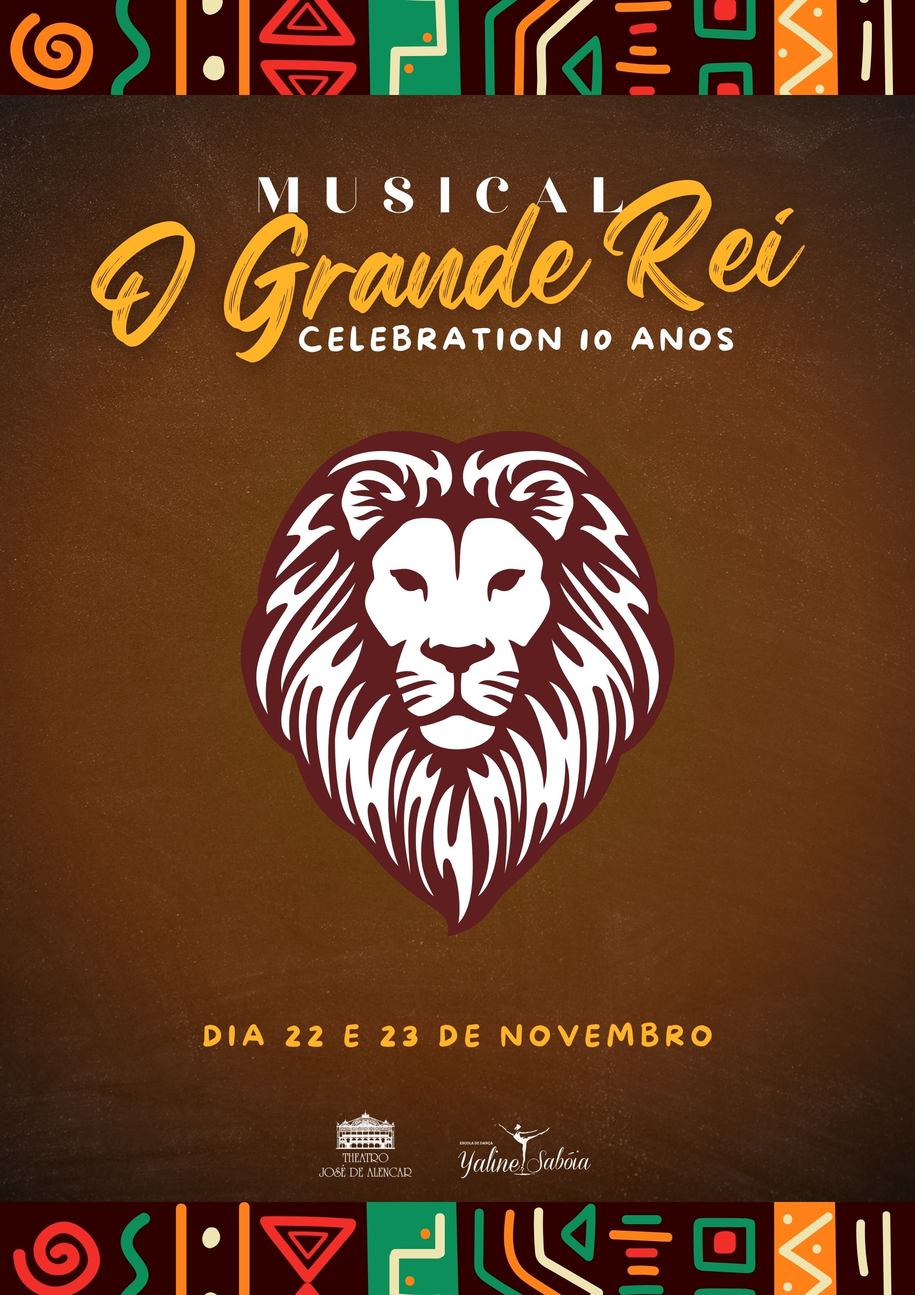
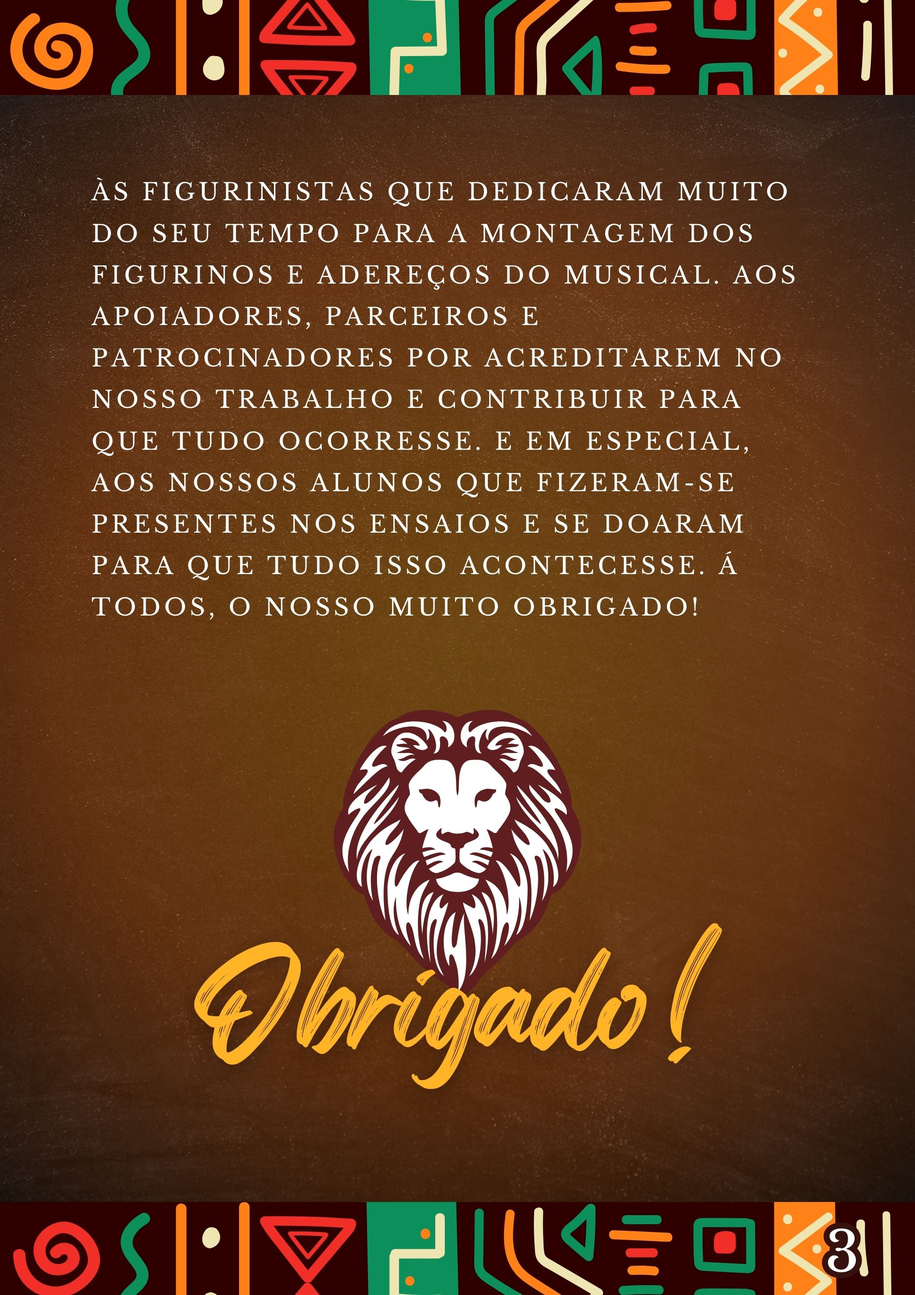
fix: fixing page error

diff --git a/src/app/(programa)/programa/page.tsx b/src/app/(programa)/programa/page.tsx
@@ -19,7 +19,7 @@ export default function Home() {
         <main className="h-auto w-full bg-bloody-red-800">
             <section className="flex flex-col justify-center items-center w-full">
                 <Programa className="lg:w-[28rem] md:w-[28rem] max-sm:w-full sm:w-full">
-                    <figure className="aspect-a4 h-auto lg:w-[30rem] lg:min-w-[30rem] md:w-[30rem] md:min-w-[30rem] max-sm:min-w-[100vw] max-sm:max-w-[100vw] sm:min-w-[100vw] sm:max-w-[100vw] bg-sunset-orange-400">
+                    <figure className="aspect-a4 h-auto lg:w-[28rem] lg:min-w-[28rem] md:w-[28rem] md:min-w-[28rem] max-sm:min-w-[100vw] max-sm:max-w-[100vw] sm:min-w-[100vw] sm:max-w-[100vw] bg-sunset-orange-400">
                         <Image
                             src={pagina1}
                             alt="Página 1 do programa do espetáculo 'O grande rei'"
@@ -28,7 +28,7 @@ export default function Home() {
                             className="object-cover w-full"
                         />
                     </figure>
-                    <figure className="aspect-a4 h-auto lg:w-[30rem] lg:min-w-[30rem] md:w-[30rem] md:min-w-[30rem] max-sm:min-w-[100vw] max-sm:max-w-[100vw] sm:min-w-[100vw] sm:max-w-[100vw] bg-sunset-orange-400">
+                    <figure className="aspect-a4 h-auto lg:w-[28rem] lg:min-w-[28rem] md:w-[28rem] md:min-w-[28rem] max-sm:min-w-[100vw] max-sm:max-w-[100vw] sm:min-w-[100vw] sm:max-w-[100vw] bg-sunset-orange-400">
                         <Image
                             src={pagina2}
                             alt="Página 2 do programa do espetáculo 'O grande rei'"
@@ -37,7 +37,7 @@ export default function Home() {
                             className="object-cover w-full"
                         />
                     </figure>
-                    <figure className="aspect-a4 h-auto lg:w-[30rem] lg:min-w-[30rem] md:w-[30rem] md:min-w-[30rem] max-sm:min-w-[100vw] max-sm:max-w-[100vw] sm:min-w-[100vw] sm:max-w-[100vw] bg-sunset-orange-400">
+                    <figure className="aspect-a4 h-auto lg:w-[28rem] lg:min-w-[28rem] md:w-[28rem] md:min-w-[28rem] max-sm:min-w-[100vw] max-sm:max-w-[100vw] sm:min-w-[100vw] sm:max-w-[100vw] bg-sunset-orange-400">
                         <Image
                             src={pagina3}
                             alt="Página 3 do programa do espetáculo 'O grande rei'"
@@ -46,7 +46,7 @@ export default function Home() {
                             className="object-cover w-full"
                         />
                     </figure>
-                    <figure className="aspect-a4 h-auto lg:w-[30rem] lg:min-w-[30rem] md:w-[30rem] md:min-w-[30rem] max-sm:min-w-[100vw] max-sm:max-w-[100vw] sm:min-w-[100vw] sm:max-w-[100vw] bg-sunset-orange-400">
+                    <figure className="aspect-a4 h-auto lg:w-[28rem] lg:min-w-[28rem] md:w-[28rem] md:min-w-[28rem] max-sm:min-w-[100vw] max-sm:max-w-[100vw] sm:min-w-[100vw] sm:max-w-[100vw] bg-sunset-orange-400">
                         <Image
                             src={pagina4}
                             alt="Página 4 do programa do espetáculo 'O grande rei'"
@@ -55,7 +55,7 @@ export default function Home() {
                             className="object-cover w-full"
                         />
                     </figure>
-                    <figure className="aspect-a4 h-auto lg:w-[30rem] lg:min-w-[30rem] md:w-[30rem] md:min-w-[30rem] max-sm:min-w-[100vw] max-sm:max-w-[100vw] sm:min-w-[100vw] sm:max-w-[100vw] bg-sunset-orange-400">
+                    <figure className="aspect-a4 h-auto lg:w-[28rem] lg:min-w-[28rem] md:w-[28rem] md:min-w-[28rem] max-sm:min-w-[100vw] max-sm:max-w-[100vw] sm:min-w-[100vw] sm:max-w-[100vw] bg-sunset-orange-400">
                         <Image
                             src={pagina5}
                             alt="Página 5 do programa do espetáculo 'O grande rei'"
@@ -64,7 +64,7 @@ export default function Home() {
                             className="object-cover w-full"
                         />
                     </figure>
-                    <figure className="aspect-a4 h-auto lg:w-[30rem] lg:min-w-[30rem] md:w-[30rem] md:min-w-[30rem] max-sm:min-w-[100vw] max-sm:max-w-[100vw] sm:min-w-[100vw] sm:max-w-[100vw] bg-sunset-orange-400">
+                    <figure className="aspect-a4 h-auto lg:w-[28rem] lg:min-w-[28rem] md:w-[28rem] md:min-w-[28rem] max-sm:min-w-[100vw] max-sm:max-w-[100vw] sm:min-w-[100vw] sm:max-w-[100vw] bg-sunset-orange-400">
                         <Image
                             src={pagina6}
                             alt="Página 6 do programa do espetáculo 'O grande rei'"
@@ -73,7 +73,7 @@ export default function Home() {
                             className="object-cover w-full"
                         />
                     </figure>
-                    <figure className="aspect-a4 h-auto lg:w-[30rem] lg:min-w-[30rem] md:w-[30rem] md:min-w-[30rem] max-sm:min-w-[100vw] max-sm:max-w-[100vw] sm:min-w-[100vw] sm:max-w-[100vw] bg-sunset-orange-400">
+                    <figure className="aspect-a4 h-auto lg:w-[28rem] lg:min-w-[28rem] md:w-[28rem] md:min-w-[28rem] max-sm:min-w-[100vw] max-sm:max-w-[100vw] sm:min-w-[100vw] sm:max-w-[100vw] bg-sunset-orange-400">
                         <Image
                             src={pagina7}
                             alt="Página 7 do programa do espetáculo 'O grande rei'"
@@ -82,7 +82,7 @@ export default function Home() {
                             className="object-cover w-full"
                         />
                     </figure>
-                    <figure className="aspect-a4 h-auto lg:w-[30rem] lg:min-w-[30rem] md:w-[30rem] md:min-w-[30rem] max-sm:min-w-[100vw] max-sm:max-w-[100vw] sm:min-w-[100vw] sm:max-w-[100vw] bg-sunset-orange-400">
+                    <figure className="aspect-a4 h-auto lg:w-[28rem] lg:min-w-[28rem] md:w-[28rem] md:min-w-[28rem] max-sm:min-w-[100vw] max-sm:max-w-[100vw] sm:min-w-[100vw] sm:max-w-[100vw] bg-sunset-orange-400">
                         <Image
                             src={pagina8}
                             alt="Página 8 do programa do espetáculo 'O grande rei'"
@@ -91,7 +91,7 @@ export default function Home() {
                             className="object-cover w-full"
                         />
                     </figure>
-                    <figure className="aspect-a4 h-auto lg:w-[30rem] lg:min-w-[30rem] md:w-[30rem] md:min-w-[30rem] max-sm:min-w-[100vw] max-sm:max-w-[100vw] sm:min-w-[100vw] sm:max-w-[100vw] bg-sunset-orange-400">
+                    <figure className="aspect-a4 h-auto lg:w-[28rem] lg:min-w-[28rem] md:w-[28rem] md:min-w-[28rem] max-sm:min-w-[100vw] max-sm:max-w-[100vw] sm:min-w-[100vw] sm:max-w-[100vw] bg-sunset-orange-400">
                         <Image
                             src={pagina9}
                             alt="Página 9 do programa do espetáculo 'O grande rei'"
@@ -100,7 +100,7 @@ export default function Home() {
                             className="object-cover w-full"
                         />
                     </figure>
-                    <figure className="aspect-a4 h-auto lg:w-[30rem] lg:min-w-[30rem] md:w-[30rem] md:min-w-[30rem] max-sm:min-w-[100vw] max-sm:max-w-[100vw] sm:min-w-[100vw] sm:max-w-[100vw] bg-sunset-orange-400">
+                    <figure className="aspect-a4 h-auto lg:w-[28rem] lg:min-w-[28rem] md:w-[28rem] md:min-w-[28rem] max-sm:min-w-[100vw] max-sm:max-w-[100vw] sm:min-w-[100vw] sm:max-w-[100vw] bg-sunset-orange-400">
                         <Image
                             src={pagina10}
                             alt="Página 10 do programa do espetáculo 'O grande rei'"
@@ -109,7 +109,7 @@ export default function Home() {
                             className="object-cover w-full"
                         />
                     </figure>
-                    <figure className="aspect-a4 h-auto lg:w-[30rem] lg:min-w-[30rem] md:w-[30rem] md:min-w-[30rem] max-sm:min-w-[100vw] max-sm:max-w-[100vw] sm:min-w-[100vw] sm:max-w-[100vw] bg-sunset-orange-400">
+                    <figure className="aspect-a4 h-auto lg:w-[28rem] lg:min-w-[28rem] md:w-[28rem] md:min-w-[28rem] max-sm:min-w-[100vw] max-sm:max-w-[100vw] sm:min-w-[100vw] sm:max-w-[100vw] bg-sunset-orange-400">
                         <Image
                             src={pagina11}
                             alt="Página 11 do programa do espetáculo 'O grande rei'"
@@ -118,7 +118,7 @@ export default function Home() {
                             className="object-cover w-full"
                         />
                     </figure>
-                    <figure className="aspect-a4 h-auto lg:w-[30rem] lg:min-w-[30rem] md:w-[30rem] md:min-w-[30rem] max-sm:min-w-[100vw] max-sm:max-w-[100vw] sm:min-w-[100vw] sm:max-w-[100vw] bg-sunset-orange-400">
+                    <figure className="aspect-a4 h-auto lg:w-[28rem] lg:min-w-[28rem] md:w-[28rem] md:min-w-[28rem] max-sm:min-w-[100vw] max-sm:max-w-[100vw] sm:min-w-[100vw] sm:max-w-[100vw] bg-sunset-orange-400">
                         <Image
                             src={pagina12}
                             alt="Página 12 do programa do espetáculo 'O grande rei'"
@@ -127,7 +127,7 @@ export default function Home() {
                             className="object-cover w-full"
                         />
                     </figure>
-                    <figure className="aspect-a4 h-auto lg:w-[30rem] lg:min-w-[30rem] md:w-[30rem] md:min-w-[30rem] max-sm:min-w-[100vw] max-sm:max-w-[100vw] sm:min-w-[100vw] sm:max-w-[100vw] bg-sunset-orange-400">
+                    <figure className="aspect-a4 h-auto lg:w-[28rem] lg:min-w-[28rem] md:w-[28rem] md:min-w-[28rem] max-sm:min-w-[100vw] max-sm:max-w-[100vw] sm:min-w-[100vw] sm:max-w-[100vw] bg-sunset-orange-400">
                         <Image
                             src={pagina13}
                             alt="Página 13 do programa do espetáculo 'O grande rei'"
